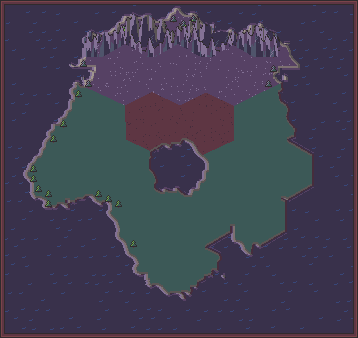
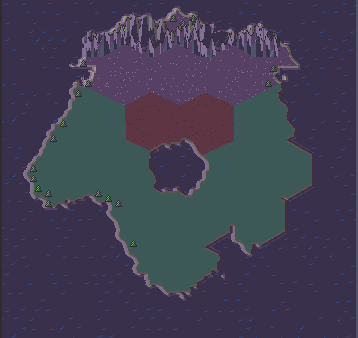
Map: no frame around the island

Changed region(s): [[0.0, 0.0, 1.0, 1.0]]

diff --git a/public/app.css b/public/app.css
@@ -420,7 +420,6 @@ select, input[type="text"], input[type="number"], input[type="password"], .chat-
 .piece { display: inline-flex; align-items: center; gap: 1px; font-size: 10px; font-weight: 600; color: var(--color-text); text-shadow: 1px 1px 0 var(--ink); }
 .faction-chip { display: inline-flex; align-items: center; gap: 4px; padding: 2px 6px; background: var(--color-panel-2); border: var(--border); box-shadow: 2px 2px 0 var(--ink); }
 .board-tile.is-scorched { filter: grayscale(1) brightness(0.6); }
-.board { border: var(--line) solid var(--ink); box-shadow: var(--shadow); }
 .tag { display: inline-block; padding: 0 4px; border: 1px solid var(--color-muted); font-size: 10px; text-transform: uppercase; font-family: var(--font-display); }
 
 /* The table layout (2026-10-06): slayer groups across the top, the map, then

diff --git a/assets/board.py b/assets/board.py
@@ -210,13 +210,6 @@ def backdrop(tiles, grounds, lake_centre, coasts=None, night=lambda ch: ch, dark
     for x, y in waves:                                    # waves catch a little moonlight
         if c.g[y][x] == night("N"):
             c.g[y][x] = "N"
-    for x in range(W):                                    # the board's frame
-        for y in range(H):
-            edge = min(x, y, W - 1 - x, H - 1 - y)
-            if edge == 0 or edge == 4:
-                c.px(x, y, "k")
-            elif edge < 4:
-                c.px(x, y, "Q" if edge != 1 else "u")
     return c.rows()
 
 
